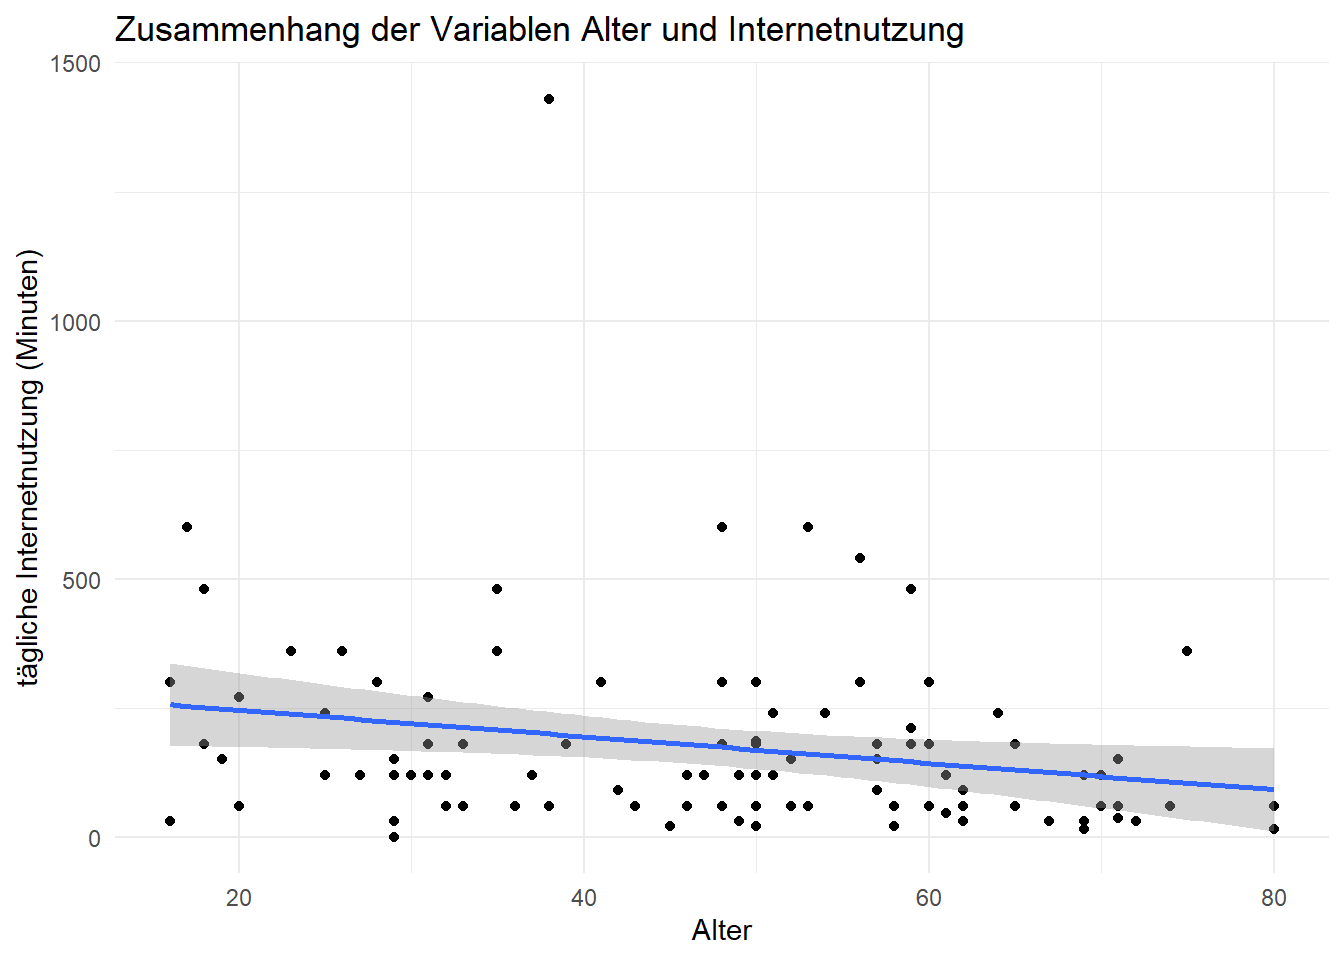
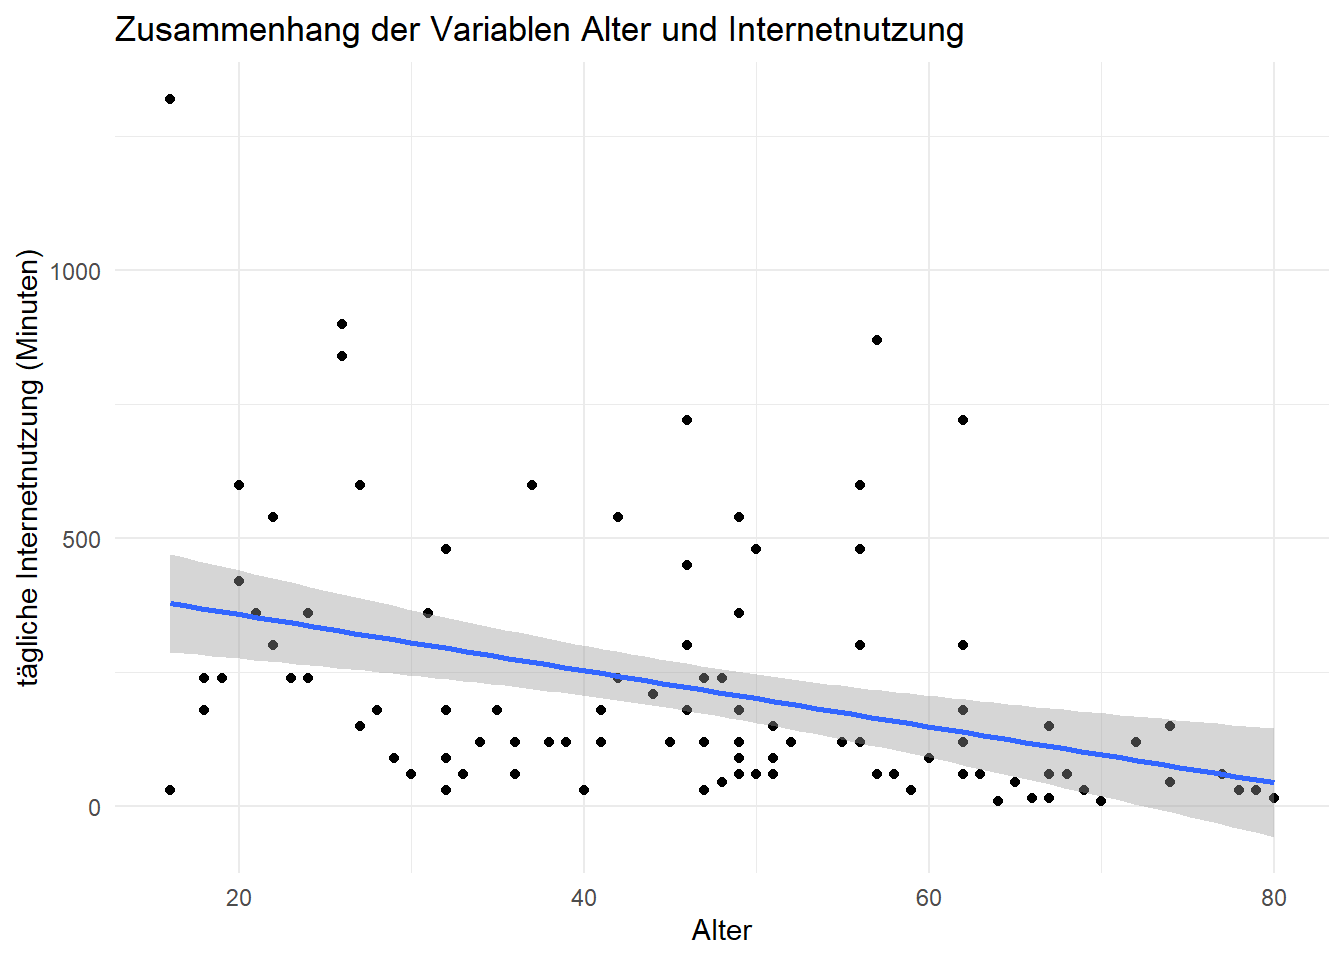
fixed typo

diff --git a/docs/Skript_7.2.html b/docs/Skript_7.2.html
@@ -107,7 +107,7 @@ pre > code.sourceCode > span > a:first-child::before { text-decoration: underlin
       <div class="navbar-container container-fluid">
       <div class="navbar-brand-container">
     <a href="./index.html" class="navbar-brand navbar-brand-logo">
-    <img src="./logo_ub_2021.png" alt="" class="navbar-logo">
+    <img src="./Bilder/logo_ub_2021.png" alt="" class="navbar-logo">
     </a>
   </div>
             <div id="quarto-search" class="" title="Search"></div>
@@ -472,7 +472,7 @@ pre > code.sourceCode > span > a:first-child::before { text-decoration: underlin
 <p>In diesem Notebook wird die <strong>einfache lineare Regression</strong> auf Grundlage der ESS-Daten vorgestellt. In der nächsten Sitzung gehen wir näher auf die Prüfung der <strong>Voraussetzungen einer Regressionsanalyse</strong> ein und lernen die <strong>multiple lineare Regression</strong> kennen.</p>
 <div class="quarto-figure quarto-figure-center">
 <figure class="figure">
-<p><img src="Loffeskater_Correlation_is_not_causation_e993d16d-c1e3-42bc-a3eb-116ae864f87c.png" class="img-fluid figure-img"></p>
+<p><img src="Bilder/Loffeskater_Correlation_is_not_causation_e993d16d-c1e3-42bc-a3eb-116ae864f87c.png" class="img-fluid figure-img"></p>
 <figcaption class="figure-caption">Picture generated by Midjourney</figcaption>
 </figure>
 </div>
@@ -550,16 +550,16 @@ pre > code.sourceCode > span > a:first-child::before { text-decoration: underlin
 <pre><code># A tibble: 100 × 166
         idno cntry gndr   alter marsts   edubde1 eduade2 eduade3 nwspol netusoft
        &lt;dbl&gt; &lt;fct&gt; &lt;fct&gt;  &lt;dbl&gt; &lt;fct&gt;    &lt;fct&gt;   &lt;fct&gt;   &lt;fct&gt;    &lt;dbl&gt; &lt;fct&gt;   
- 1  10003492 DE    Male      62 &lt;NA&gt;     Abitur… Diplom… Kein b…     60 Every d…
- 2 100001846 GB    Male      48 &lt;NA&gt;     &lt;NA&gt;    &lt;NA&gt;    &lt;NA&gt;       120 Every d…
- 3 100000975 GB    Female    58 &lt;NA&gt;     &lt;NA&gt;    &lt;NA&gt;    &lt;NA&gt;        15 Every d…
- 4 100002441 GB    Female    18 None of… &lt;NA&gt;    &lt;NA&gt;    &lt;NA&gt;        60 Every d…
- 5 100003993 GB    Male      48 &lt;NA&gt;     &lt;NA&gt;    &lt;NA&gt;    &lt;NA&gt;         0 Every d…
- 6 100004014 GB    Female    69 Legally… &lt;NA&gt;    &lt;NA&gt;    &lt;NA&gt;        45 Most da…
- 7  10009402 DE    Female    38 Legally… Volks-… Kein H… Gewerb…     60 Every d…
- 8 100002639 GB    Female    19 None of… &lt;NA&gt;    &lt;NA&gt;    &lt;NA&gt;       180 Every d…
- 9 100002500 GB    Male      51 None of… &lt;NA&gt;    &lt;NA&gt;    &lt;NA&gt;       180 Every d…
-10 100002521 GB    Female    71 &lt;NA&gt;     &lt;NA&gt;    &lt;NA&gt;    &lt;NA&gt;        60 Every d…
+ 1 100002203 GB    Male      47 Legally… &lt;NA&gt;    &lt;NA&gt;    &lt;NA&gt;        60 Most da…
+ 2      1238 SE    Female    58 Legally… &lt;NA&gt;    &lt;NA&gt;    &lt;NA&gt;        60 Every d…
+ 3 100004444 GB    Male      41 None of… &lt;NA&gt;    &lt;NA&gt;    &lt;NA&gt;        60 Every d…
+ 4      3311 SE    Male      23 None of… &lt;NA&gt;    &lt;NA&gt;    &lt;NA&gt;        20 Every d…
+ 5 100002153 GB    Female    30 None of… &lt;NA&gt;    &lt;NA&gt;    &lt;NA&gt;         0 Most da…
+ 6  14000063 DE    Male      49 None of… Mittle… Kein H… Meiste…     60 Every d…
+ 7  10002110 DE    Male      49 &lt;NA&gt;     Fachho… Diplom… Kein b…     90 Most da…
+ 8 100001015 GB    Male      32 &lt;NA&gt;     &lt;NA&gt;    &lt;NA&gt;    &lt;NA&gt;        30 Every d…
+ 9 100002013 GB    Male      20 None of… &lt;NA&gt;    &lt;NA&gt;    &lt;NA&gt;       180 Every d…
+10 100003182 GB    Female    46 None of… &lt;NA&gt;    &lt;NA&gt;    &lt;NA&gt;        60 Every d…
 # ℹ 90 more rows
 # ℹ 156 more variables: internetnutzung &lt;dbl&gt;, ppltrst &lt;dbl&gt;, pplfair &lt;dbl&gt;,
 #   pplhlp &lt;dbl&gt;, polintr &lt;fct&gt;, psppsgva &lt;fct&gt;, actrolga &lt;fct&gt;,
@@ -607,7 +607,7 @@ lm(formula = internetnutzung ~ alter, data = daten_mod)
 
 Coefficients:
 (Intercept)        alter  
-    297.204       -2.575  </code></pre>
+    462.784       -5.232  </code></pre>
 </div>
 </div>
 <p>Da dieser Output sehr, sehr sparsam und für uns noch wenig aussagekräftig ist, ergänzen wir ihn mit dem bekannten summary-Befehl, den wir auf unser Modell anwenden. Die dann erscheinende Ausgabe ist das “Herzstück” unserer Regressionsanalyse (insbesondere, wenn sie um die standardisierten B-Koeffizienten erweitert wird - dazu kommen wir aber unten noch). Jetzt nutzen wir erst einmal die summary-Funktion, und wir erhalten im Output einen guten Überblick über unser Regressionsmodell:</p>
@@ -620,18 +620,18 @@ lm(formula = internetnutzung ~ alter, data = daten_mod)
 
 Residuals:
     Min      1Q  Median      3Q     Max 
--226.01 -100.15  -52.71   45.54 1230.64 
+-349.07 -125.12  -69.48   38.74  940.93 
 
 Coefficients:
-            Estimate Std. Error t value   Pr(&gt;|t|)    
-(Intercept)  297.204     56.543   5.256 0.00000086 ***
-alter         -2.575      1.118  -2.302     0.0234 *  
+            Estimate Std. Error t value       Pr(&gt;|t|)    
+(Intercept)  462.784     65.659   7.048 0.000000000255 ***
+alter         -5.232      1.344  -3.892       0.000181 ***
 ---
 Signif. codes:  0 '***' 0.001 '**' 0.01 '*' 0.05 '.' 0.1 ' ' 1
 
-Residual standard error: 184.6 on 98 degrees of freedom
-Multiple R-squared:  0.05132,   Adjusted R-squared:  0.04164 
-F-statistic: 5.302 on 1 and 98 DF,  p-value: 0.02342</code></pre>
+Residual standard error: 221.5 on 98 degrees of freedom
+Multiple R-squared:  0.1339,    Adjusted R-squared:  0.125 
+F-statistic: 15.15 on 1 and 98 DF,  p-value: 0.0001813</code></pre>
 </div>
 </div>
 </section>
@@ -686,7 +686,7 @@ Wie gebe ich die Ergebnisse korrekt an?
 </div>
 <div class="callout-body-container callout-body">
 <p>Die Ergebnisse von Regressionsanalysen werden meistens in einer Tabelle dargestellt. Für die Angabe im Text wird folgendes gebraucht:</p>
-<p>✅ den R2-Wert (das Bestimmungskoeffizient)</p>
+<p>✅ den R<sup>2</sup>-Wert (das Bestimmungskoeffizient)</p>
 <p>✅ den F-Wert (auch als F-Statistik bezeichnet)</p>
 <p>✅ die Freiheitsgrade in Klammern</p>
 <p>✅ den p-Wert</p>
@@ -705,12 +705,12 @@ Wie gebe ich die Ergebnisse korrekt an?
 <div class="sourceCode cell-code" id="cb19"><pre class="sourceCode numberSource r number-lines code-with-copy"><code class="sourceCode r"><span id="cb19-1"><a href="#cb19-1"></a><span class="fu">predict.lm</span>(model, <span class="fu">data.frame</span>(<span class="at">alter =</span> <span class="dv">25</span>))</span></code><button title="Copy to Clipboard" class="code-copy-button"><i class="bi"></i></button></pre></div>
 <div class="cell-output cell-output-stdout">
 <pre><code>       1 
-232.8317 </code></pre>
+331.9749 </code></pre>
 </div>
 <div class="sourceCode cell-code" id="cb21"><pre class="sourceCode numberSource r number-lines code-with-copy"><code class="sourceCode r"><span id="cb21-1"><a href="#cb21-1"></a><span class="fu">predict.lm</span>(model, <span class="fu">data.frame</span>(<span class="at">alter =</span> <span class="dv">75</span>))</span></code><button title="Copy to Clipboard" class="code-copy-button"><i class="bi"></i></button></pre></div>
 <div class="cell-output cell-output-stdout">
 <pre><code>       1 
-104.0873 </code></pre>
+70.35689 </code></pre>
 </div>
 </div>
 </section>
@@ -721,8 +721,8 @@ Wie gebe ich die Ergebnisse korrekt an?
 <div class="cell">
 <div class="sourceCode cell-code" id="cb23"><pre class="sourceCode numberSource r number-lines code-with-copy"><code class="sourceCode r"><span id="cb23-1"><a href="#cb23-1"></a><span class="fu">predict.lm</span>(model, <span class="fu">data.frame</span>(<span class="at">alter =</span> <span class="fu">c</span>(<span class="dv">25</span>, <span class="dv">75</span>)))</span></code><button title="Copy to Clipboard" class="code-copy-button"><i class="bi"></i></button></pre></div>
 <div class="cell-output cell-output-stdout">
-<pre><code>       1        2 
-232.8317 104.0873 </code></pre>
+<pre><code>        1         2 
+331.97493  70.35689 </code></pre>
 </div>
 </div>
 </section>
@@ -733,31 +733,31 @@ Wie gebe ich die Ergebnisse korrekt an?
 <div class="sourceCode cell-code" id="cb25"><pre class="sourceCode numberSource r number-lines code-with-copy"><code class="sourceCode r"><span id="cb25-1"><a href="#cb25-1"></a><span class="fu">fitted</span>(model) </span></code><button title="Copy to Clipboard" class="code-copy-button"><i class="bi"></i></button></pre></div>
 <div class="cell-output cell-output-stdout">
 <pre><code>        1         2         3         4         5         6         7         8 
-137.56082 173.60927 147.86038 250.85595 173.60927 119.53660 199.35817 248.28106 
+216.86299 159.30702 248.25716 342.43965 305.81313 206.39827 206.39827 295.34840 
         9        10        11        12        13        14        15        16 
-165.88461 114.38682 137.56082 250.85595 201.93305 132.41105 212.23261 168.45949 
+358.13674 222.09535 222.09535 138.37758 201.16591 169.77174  96.51869 112.21577 
        17        18        19        20        21        22        23        24 
-153.01016 145.28549 160.73483 217.38239 207.08283 104.08726 191.63350 171.03438 
+ 49.42744 295.34840 379.06618 164.53938 222.09535 295.34840  54.65980 311.04549 
        25        26        27        28        29        30        31        32 
-129.83616 219.95728 212.23261 168.45949 222.53217 111.81193 147.86038 163.30972 
+295.34840 211.63063  59.89217 216.86299 206.39827 321.51021 127.91286 347.67201 
        33        34        35        36        37        38        39        40 
-114.38682 150.43527 245.70617 173.60927 142.71060 204.50794 199.35817 237.98150 
+106.98341 112.21577 206.39827 190.70119  86.05397 347.67201 101.75105 138.37758 
        41        42        43        44        45        46        47        48 
-225.10706 222.53217 171.03438 178.75905 168.45949 256.00573 196.78328 256.00573 
+138.37758 122.68050 300.58077 206.39827 337.20729 195.93355 274.41896 316.27785 
        49        50        51        52        53        54        55        56 
-153.01016 181.33394 163.30972 145.28549 129.83616 176.18416 165.88461 217.38239 
+133.14522 206.39827 232.56007 269.18660 263.95424 195.93355 227.32771 164.53938 
        57        58        59        60        61        62        63        64 
-230.25684 207.08283 140.13571 163.30972 189.05861 160.73483 222.53217 116.96171 
+169.77174 253.48952 321.51021 211.63063 148.84230 222.09535 169.77174 206.39827 
        65        66        67        68        69        70        71        72 
-150.43527 150.43527 232.83173 232.83173 114.38682 168.45949 119.53660 129.83616 
+368.60146 175.00410 274.41896 290.11604 258.72188 263.95424  75.58925 274.41896 
        73        74        75        76        77        78        79        80 
-173.60927 186.48372 116.96171 253.43084 116.96171 142.71060 140.13571  91.21282 
+ 44.19508 379.06618 352.90437 154.07466 206.39827 248.25716 337.20729 117.44814 
        81        82        83        84        85        86        87        88 
-178.75905 227.68195 176.18416 158.15994 168.45949 142.71060 196.78328 124.68638 
+243.02480 358.13674 363.36910 284.88368  75.58925 195.93355 112.21577 164.53938 
        89        90        91        92        93        94        95        96 
-106.66215 217.38239 214.80750 214.80750 137.56082 245.70617 171.03438 222.53217 
+368.60146 138.37758 326.74257 248.25716 243.02480 169.77174 216.86299 326.74257 
        97        98        99       100 
-119.53660 168.45949 145.28549  91.21282 </code></pre>
+279.65132 138.37758 201.16591 305.81313 </code></pre>
 </div>
 </div>
 <p>Nun haben wir aber im Rahmen unserer Befragung die Internetnutzung der Befragten aber ja schon erhoben. Wozu dient das dann? Ganz einfach: Über die Ausgabe der prognostizierten Werte und der Residuen können wir sehen, wie hoch die Abweichung der Modellprognose ist, d.h. wie sehr die empirisch beobachteten Werte unserer Fälle im Datensatz von den laut Modell erwarteten Werten abweichen. Um die Abweichung zu quantifizieren, nutzen wir die residuals.lm-Funktion:</p>
@@ -765,39 +765,39 @@ Wie gebe ich die Ergebnisse korrekt an?
 <div class="sourceCode cell-code" id="cb27"><pre class="sourceCode numberSource r number-lines code-with-copy"><code class="sourceCode r"><span id="cb27-1"><a href="#cb27-1"></a><span class="fu">residuals.lm</span>(model)</span></code><button title="Copy to Clipboard" class="code-copy-button"><i class="bi"></i></button></pre></div>
 <div class="cell-output cell-output-stdout">
 <pre><code>           1            2            3            4            5            6 
- -47.5608239    6.3907267  -87.8603809  -70.8559504 -113.6092733 -104.5365993 
+  23.1370081  -99.3070223 -128.2571571 -102.4396528 -245.8131267  -86.3982702 
            7            8            9           10           11           12 
-1230.6418344  -98.2810611   74.1153944  -79.3868208 -107.5608239  229.1440496 
+-116.3982702 -265.3484050   61.8632646   77.9046472  227.9046472  -18.3775789 
           13           14           15           16           17           18 
- -81.9330549  107.5889545 -152.2326118 -108.4594948  146.9898406   64.7145083 
+-141.1659093  -49.7717441  -86.5186919  -52.2157745  -19.4274441 -115.3484050 
           19           20           21           22           23           24 
- 439.2651729  -37.3823903  272.9171667  255.9127361  108.3665021  -51.0343840 
+ 940.9338211 -104.5393832  -42.0953528 -205.3484050  -24.6598049 -221.0454876 
           25           26           27           28           29           30 
-  50.1638438  -99.9572795  -32.2326118   16.5405052 -102.5321688  -81.8119316 
+ 184.6515950 -166.6306310    0.1078342  -96.8629919  -26.3982702 -171.5102093 
           31           32           33           34           35           36 
--127.8603809 -103.3097163  -54.3868208   -0.4352701 -185.7061719  126.3907267 
+-117.9128571  192.3279863  -46.9834136  -97.2157745  -86.3982702  -70.7011876 
           37           38           39           40           41           42 
-  37.2893976 -144.5079441 -139.3581656  122.0184958   74.8929420 -192.5321688 
+  33.9460298  -47.6720137  -71.7510528   41.6224211  161.6224211  -77.6804962 
           43           44           45           46           47           48 
--141.0343840 -118.7590517 -148.4594948   43.9942712  -16.7832764 -226.0057288 
+  59.4192342  -86.3982702   22.7927081  -45.9335484 -214.4189615 -136.2778484 
           49           50           51           52           53           54 
- 386.9898406 -161.3339410 -103.3097163  334.7145083  -69.8361562  -56.1841625 
+ -73.1452180 -146.3982702  -22.5600745  330.8133994 -143.9542397 -135.9335484 
           55           56           57           58           59           60 
- -45.8846056   52.6176097  129.7431635  152.9171667  -95.1357132  -13.3097163 
+-107.3277137 -104.5393832  310.2282559 -223.4895180  278.4897907   28.3693690 
           61           62           63           64           65           66 
- -99.0586087 -100.7348271 -222.5321688    3.0382899  -60.4352701   29.5647299 
+ -58.8423006  497.9046472  130.2282559  153.6017298 -188.6014571  -55.0041050 
           67           68           69           70           71           72 
--112.8317257    7.1682743   35.6131792  131.5405052  -89.5365993   50.1638438 
+-154.4189615 -230.1160441 -138.7218789 -143.9542397  -30.5892484 -214.4189615 
           73           74           75           76           77           78 
- 426.3907267 -126.4837194  -56.9617101  346.5691604  -56.9617101  -82.7106024 
+ -29.1950832 -349.0661789    7.0956255 -124.0746615  333.6017298  -68.2571571 
           79           80           81           82           83           84 
- -20.1357132  -76.2128177  -58.7590517 -107.6819472  -56.1841625   81.8400622 
+ -97.2072919 -102.4481354  296.9752037  241.8632646 -123.3690963 -164.8836832 
           85           86           87           88           89           90 
- -48.4594948  157.2893976  -16.7832764  -94.6863778  -46.6621531  -97.3823903 
+  74.4107516 -105.9335484   37.7842255  705.4606168 -128.6014571  -78.3775789 
           91           92           93           94           95           96 
--154.8075010  -94.8075010  -77.5608239   24.2938281 -141.0343840  -72.5321688 
+ 573.2574298  -68.2571571   -3.0247963  430.2282559 -186.8629919  513.2574298 
           97           98           99          100 
-   0.4634007   11.5405052   34.7145083  -31.2128177 </code></pre>
+ -99.6513224  581.6224211  278.8340907 -245.8131267 </code></pre>
 </div>
 </div>
 </section>
@@ -842,18 +842,18 @@ lm(formula = internetnutzung ~ alter, data = daten_mod)
 
 Residuals:
     Min      1Q  Median      3Q     Max 
--226.01 -100.15  -52.71   45.54 1230.64 
+-349.07 -125.12  -69.48   38.74  940.93 
 
 Coefficients:
-            Estimate Standardized Std. Error t value   Pr(&gt;|t|)    
-(Intercept) 297.2040           NA    56.5431   5.256 0.00000086 ***
-alter        -2.5749      -0.2265     1.1183  -2.302     0.0234 *  
+            Estimate Standardized Std. Error t value       Pr(&gt;|t|)    
+(Intercept) 462.7840           NA    65.6594   7.048 0.000000000255 ***
+alter        -5.2324      -0.3659     1.3443  -3.892       0.000181 ***
 ---
 Signif. codes:  0 '***' 0.001 '**' 0.01 '*' 0.05 '.' 0.1 ' ' 1
 
-Residual standard error: 184.6 on 98 degrees of freedom
-Multiple R-squared:  0.05132,   Adjusted R-squared:  0.04164 
-F-statistic: 5.302 on 1 and 98 DF,  p-value: 0.02342</code></pre>
+Residual standard error: 221.5 on 98 degrees of freedom
+Multiple R-squared:  0.1339,    Adjusted R-squared:  0.125 
+F-statistic: 15.15 on 1 and 98 DF,  p-value: 0.0001813</code></pre>
 </div>
 </div>
 </section>
@@ -863,19 +863,19 @@ F-statistic: 5.302 on 1 and 98 DF,  p-value: 0.02342</code></pre>
 <div class="sourceCode cell-code" id="cb33"><pre class="sourceCode numberSource r number-lines code-with-copy"><code class="sourceCode r"><span id="cb33-1"><a href="#cb33-1"></a><span class="fu">tidy</span>(<span class="fu">lm.beta</span>(model))</span></code><button title="Copy to Clipboard" class="code-copy-button"><i class="bi"></i></button></pre></div>
 <div class="cell-output cell-output-stdout">
 <pre><code># A tibble: 2 × 6
-  term        estimate std_estimate std.error statistic     p.value
-  &lt;chr&gt;          &lt;dbl&gt;        &lt;dbl&gt;     &lt;dbl&gt;     &lt;dbl&gt;       &lt;dbl&gt;
-1 (Intercept)   297.         NA         56.5       5.26 0.000000860
-2 alter          -2.57       -0.227      1.12     -2.30 0.0234     </code></pre>
+  term        estimate std_estimate std.error statistic  p.value
+  &lt;chr&gt;          &lt;dbl&gt;        &lt;dbl&gt;     &lt;dbl&gt;     &lt;dbl&gt;    &lt;dbl&gt;
+1 (Intercept)   463.         NA         65.7       7.05 2.55e-10
+2 alter          -5.23       -0.366      1.34     -3.89 1.81e- 4</code></pre>
 </div>
 </div>
 <div class="cell">
 <div class="sourceCode cell-code" id="cb35"><pre class="sourceCode numberSource r number-lines code-with-copy"><code class="sourceCode r"><span id="cb35-1"><a href="#cb35-1"></a><span class="fu">glance</span>(model)</span></code><button title="Copy to Clipboard" class="code-copy-button"><i class="bi"></i></button></pre></div>
 <div class="cell-output cell-output-stdout">
 <pre><code># A tibble: 1 × 12
-  r.squared adj.r.squared sigma statistic p.value    df logLik   AIC   BIC
-      &lt;dbl&gt;         &lt;dbl&gt; &lt;dbl&gt;     &lt;dbl&gt;   &lt;dbl&gt; &lt;dbl&gt;  &lt;dbl&gt; &lt;dbl&gt; &lt;dbl&gt;
-1    0.0513        0.0416  185.      5.30  0.0234     1  -663. 1331. 1339.
+  r.squared adj.r.squared sigma statistic  p.value    df logLik   AIC   BIC
+      &lt;dbl&gt;         &lt;dbl&gt; &lt;dbl&gt;     &lt;dbl&gt;    &lt;dbl&gt; &lt;dbl&gt;  &lt;dbl&gt; &lt;dbl&gt; &lt;dbl&gt;
+1     0.134         0.125  221.      15.1 0.000181     1  -681. 1368. 1376.
 # ℹ 3 more variables: deviance &lt;dbl&gt;, df.residual &lt;int&gt;, nobs &lt;int&gt;</code></pre>
 </div>
 </div>
@@ -883,18 +883,18 @@ F-statistic: 5.302 on 1 and 98 DF,  p-value: 0.02342</code></pre>
 <div class="sourceCode cell-code" id="cb37"><pre class="sourceCode numberSource r number-lines code-with-copy"><code class="sourceCode r"><span id="cb37-1"><a href="#cb37-1"></a><span class="fu">augment</span>(model)</span></code><button title="Copy to Clipboard" class="code-copy-button"><i class="bi"></i></button></pre></div>
 <div class="cell-output cell-output-stdout">
 <pre><code># A tibble: 100 × 8
-   internetnutzung alter .fitted  .resid   .hat .sigma    .cooksd .std.resid
-             &lt;dbl&gt; &lt;dbl&gt;   &lt;dbl&gt;   &lt;dbl&gt;  &lt;dbl&gt;  &lt;dbl&gt;      &lt;dbl&gt;      &lt;dbl&gt;
- 1              90    62    138.  -47.6  0.0174   186. 0.000598      -0.260 
- 2             180    48    174.    6.39 0.0100   186. 0.00000611     0.0348
- 3              60    58    148.  -87.9  0.0138   185. 0.00161       -0.479 
- 4             180    18    251.  -70.9  0.0426   185. 0.00342       -0.392 
- 5              60    48    174. -114.   0.0100   185. 0.00193       -0.618 
- 6              15    69    120. -105.   0.0265   185. 0.00448       -0.574 
- 7            1430    38    199. 1231.   0.0135   136. 0.309          6.71  
- 8             150    19    248.  -98.3  0.0404   185. 0.00622       -0.543 
- 9             240    51    166.   74.1  0.0104   185. 0.000854       0.404 
-10              35    71    114.  -79.4  0.0298   185. 0.00292       -0.437 
+   internetnutzung alter .fitted .resid   .hat .sigma   .cooksd .std.resid
+             &lt;dbl&gt; &lt;dbl&gt;   &lt;dbl&gt;  &lt;dbl&gt;  &lt;dbl&gt;  &lt;dbl&gt;     &lt;dbl&gt;      &lt;dbl&gt;
+ 1             240    47    217.   23.1 0.0100   223. 0.0000559      0.105
+ 2              60    58    159.  -99.3 0.0153   222. 0.00159       -0.452
+ 3             120    41    248. -128.  0.0109   222. 0.00187       -0.582
+ 4             240    23    342. -102.  0.0295   222. 0.00335       -0.470
+ 5              60    30    306. -246.  0.0194   221. 0.0124        -1.12 
+ 6             120    49    206.  -86.4 0.0103   222. 0.000803      -0.392
+ 7              90    49    206. -116.  0.0103   222. 0.00146       -0.528
+ 8              30    32    295. -265.  0.0172   221. 0.0128        -1.21 
+ 9             420    20    358.   61.9 0.0349   223. 0.00146        0.284
+10             300    46    222.   77.9 0.0100   222. 0.000631       0.354
 # ℹ 90 more rows</code></pre>
 </div>
 </div>
